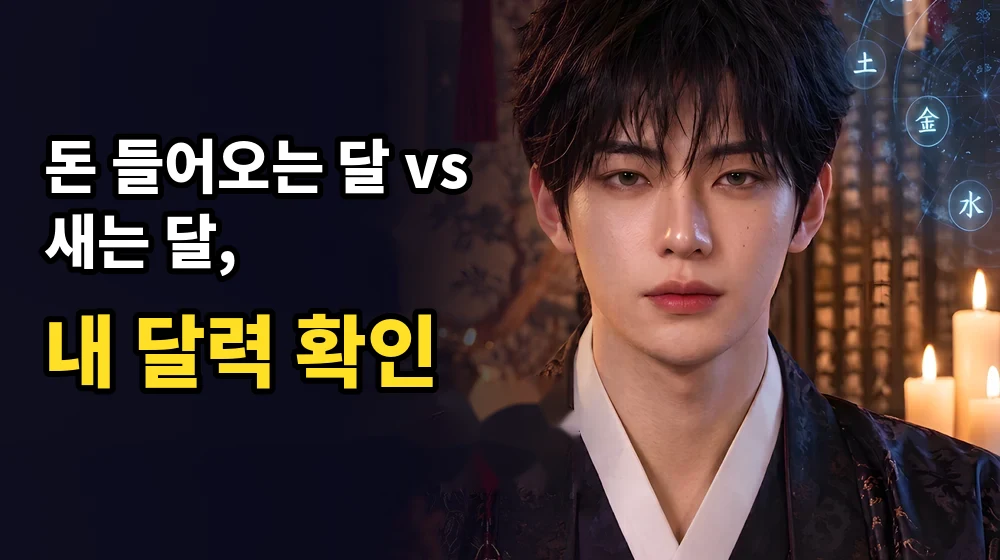
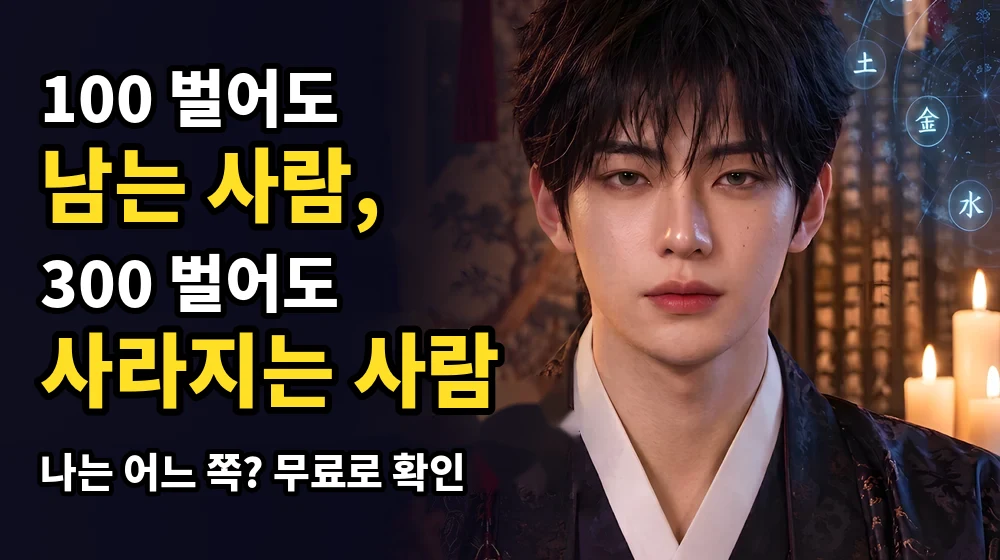
/go 돈운 배너: 대비형 문구
Claude-Session: https://claude.ai/code/session_01GjNYZGL8stgikrPJZ4YRZq

Changed region(s): [[0.031, 0.0911, 0.527, 0.7589], [0.031, 0.7893, 0.465, 0.9107]]

diff --git a/go.html b/go.html
@@ -40,7 +40,7 @@ footer{margin-top:12px;font-size:12px;color:var(--sub);text-align:center}
   <h1>내 운 사용설명서</h1>
   <p>사주 × MBTI · 생년월일만 넣으면 무료로 확인해요</p>
  </div>
- <a class="feat" href="/rich?utm_source=ig_profile&utm_content=rich"><img src="img/go-rich.webp?v=4" alt="돈 들어오는 달 vs 새는 달, 내 달력 확인"><span>💰 내 돈운이 들어오는 자리, 무료로 확인하기</span></a>
+ <a class="feat" href="/rich?utm_source=ig_profile&utm_content=rich"><img src="img/go-rich.webp?v=5" alt="100 벌어도 남는 사람, 300 벌어도 사라지는 사람. 나는 어느 쪽? 무료로 확인"><span>💰 내 돈이 새는 구멍, 무료로 확인하기</span></a>
  <a class="feat" href="/love?utm_source=ig_profile&utm_content=love"><img src="img/go-love.webp?v=5" alt="인연이 들어오는 달, 단 두 번? 내 달은 언제인지 무료로 확인" loading="lazy"><span>💗 내 인연이 들어오는 달, 무료로 확인하기</span></a>
  <a class="row" href="/?utm_source=ig_profile&utm_content=match#match"><img class="th" src="chars/seonhwa.webp" alt=""><span class="tx"><b>우리는 왜 이렇게 끌릴까?</b><small>두 사람의 궁합, 무료로 확인</small></span></a>
  <a class="row" href="/?utm_source=ig_profile&utm_content=rel#rel"><img class="th" src="chars/hawon.webp" alt=""><span class="tx"><b>나는 왜 사람한테 유독 지칠까?</b><small>내 관계 흐름, 무료로 확인</small></span></a>
